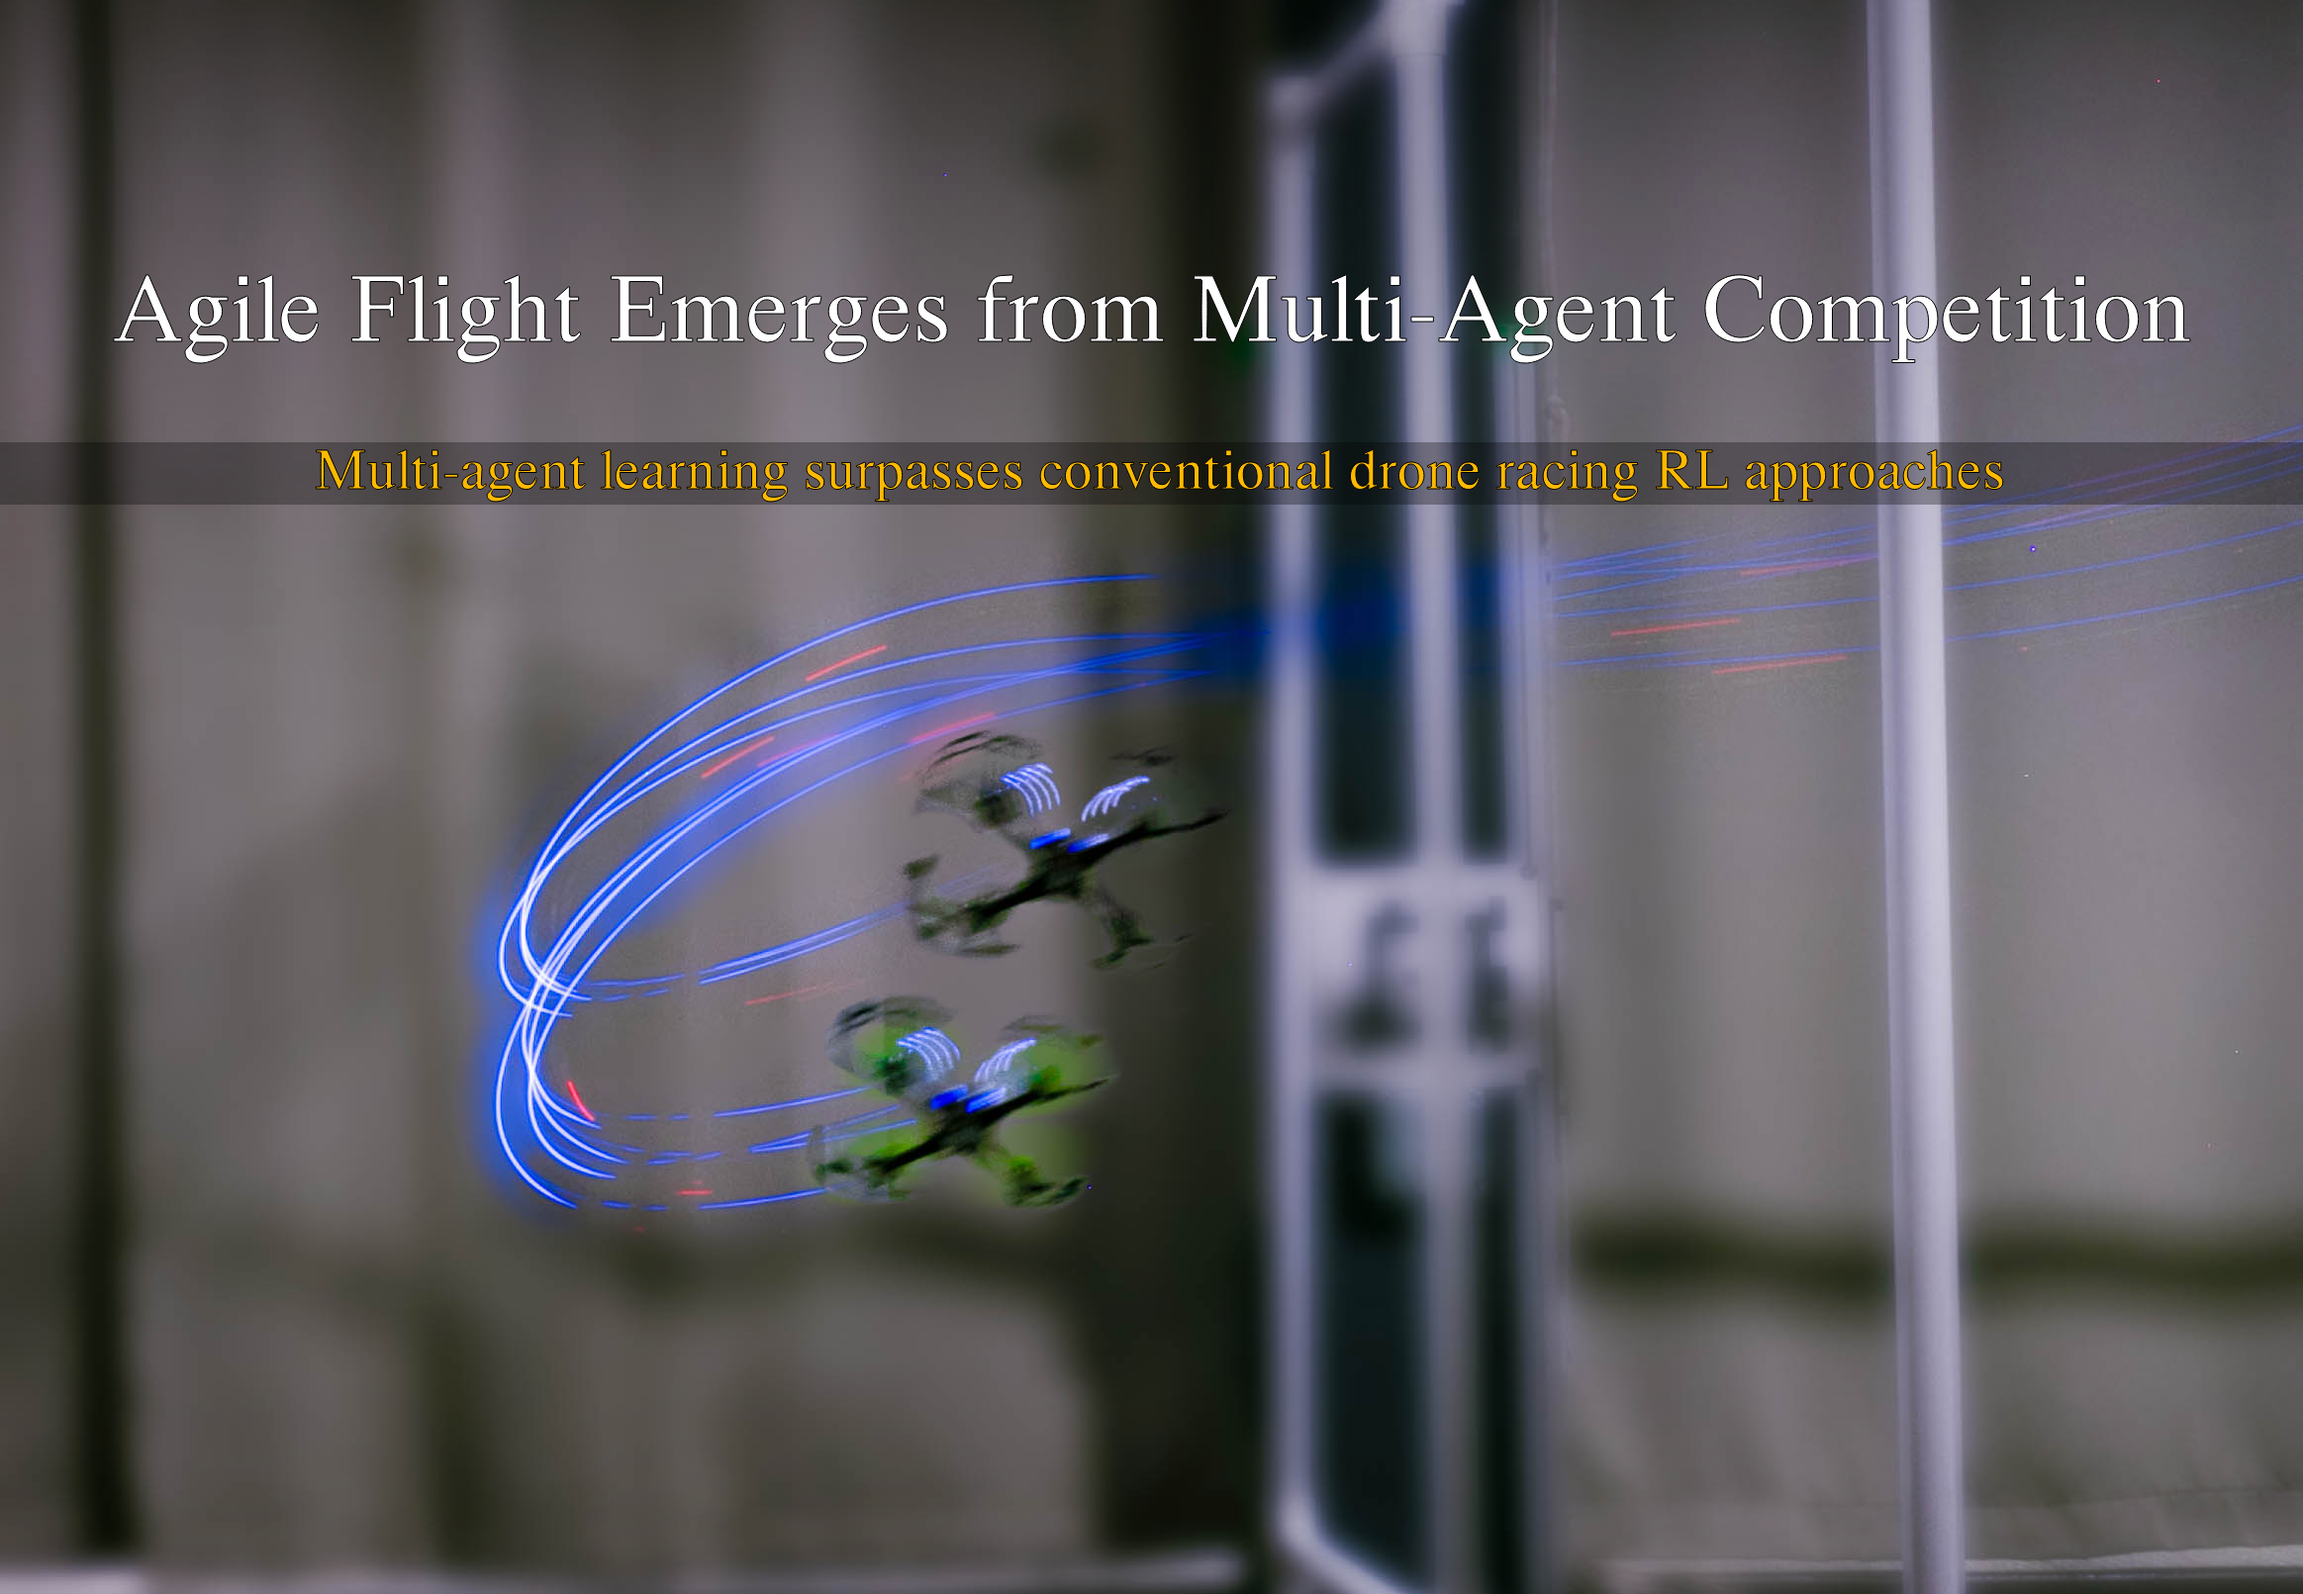
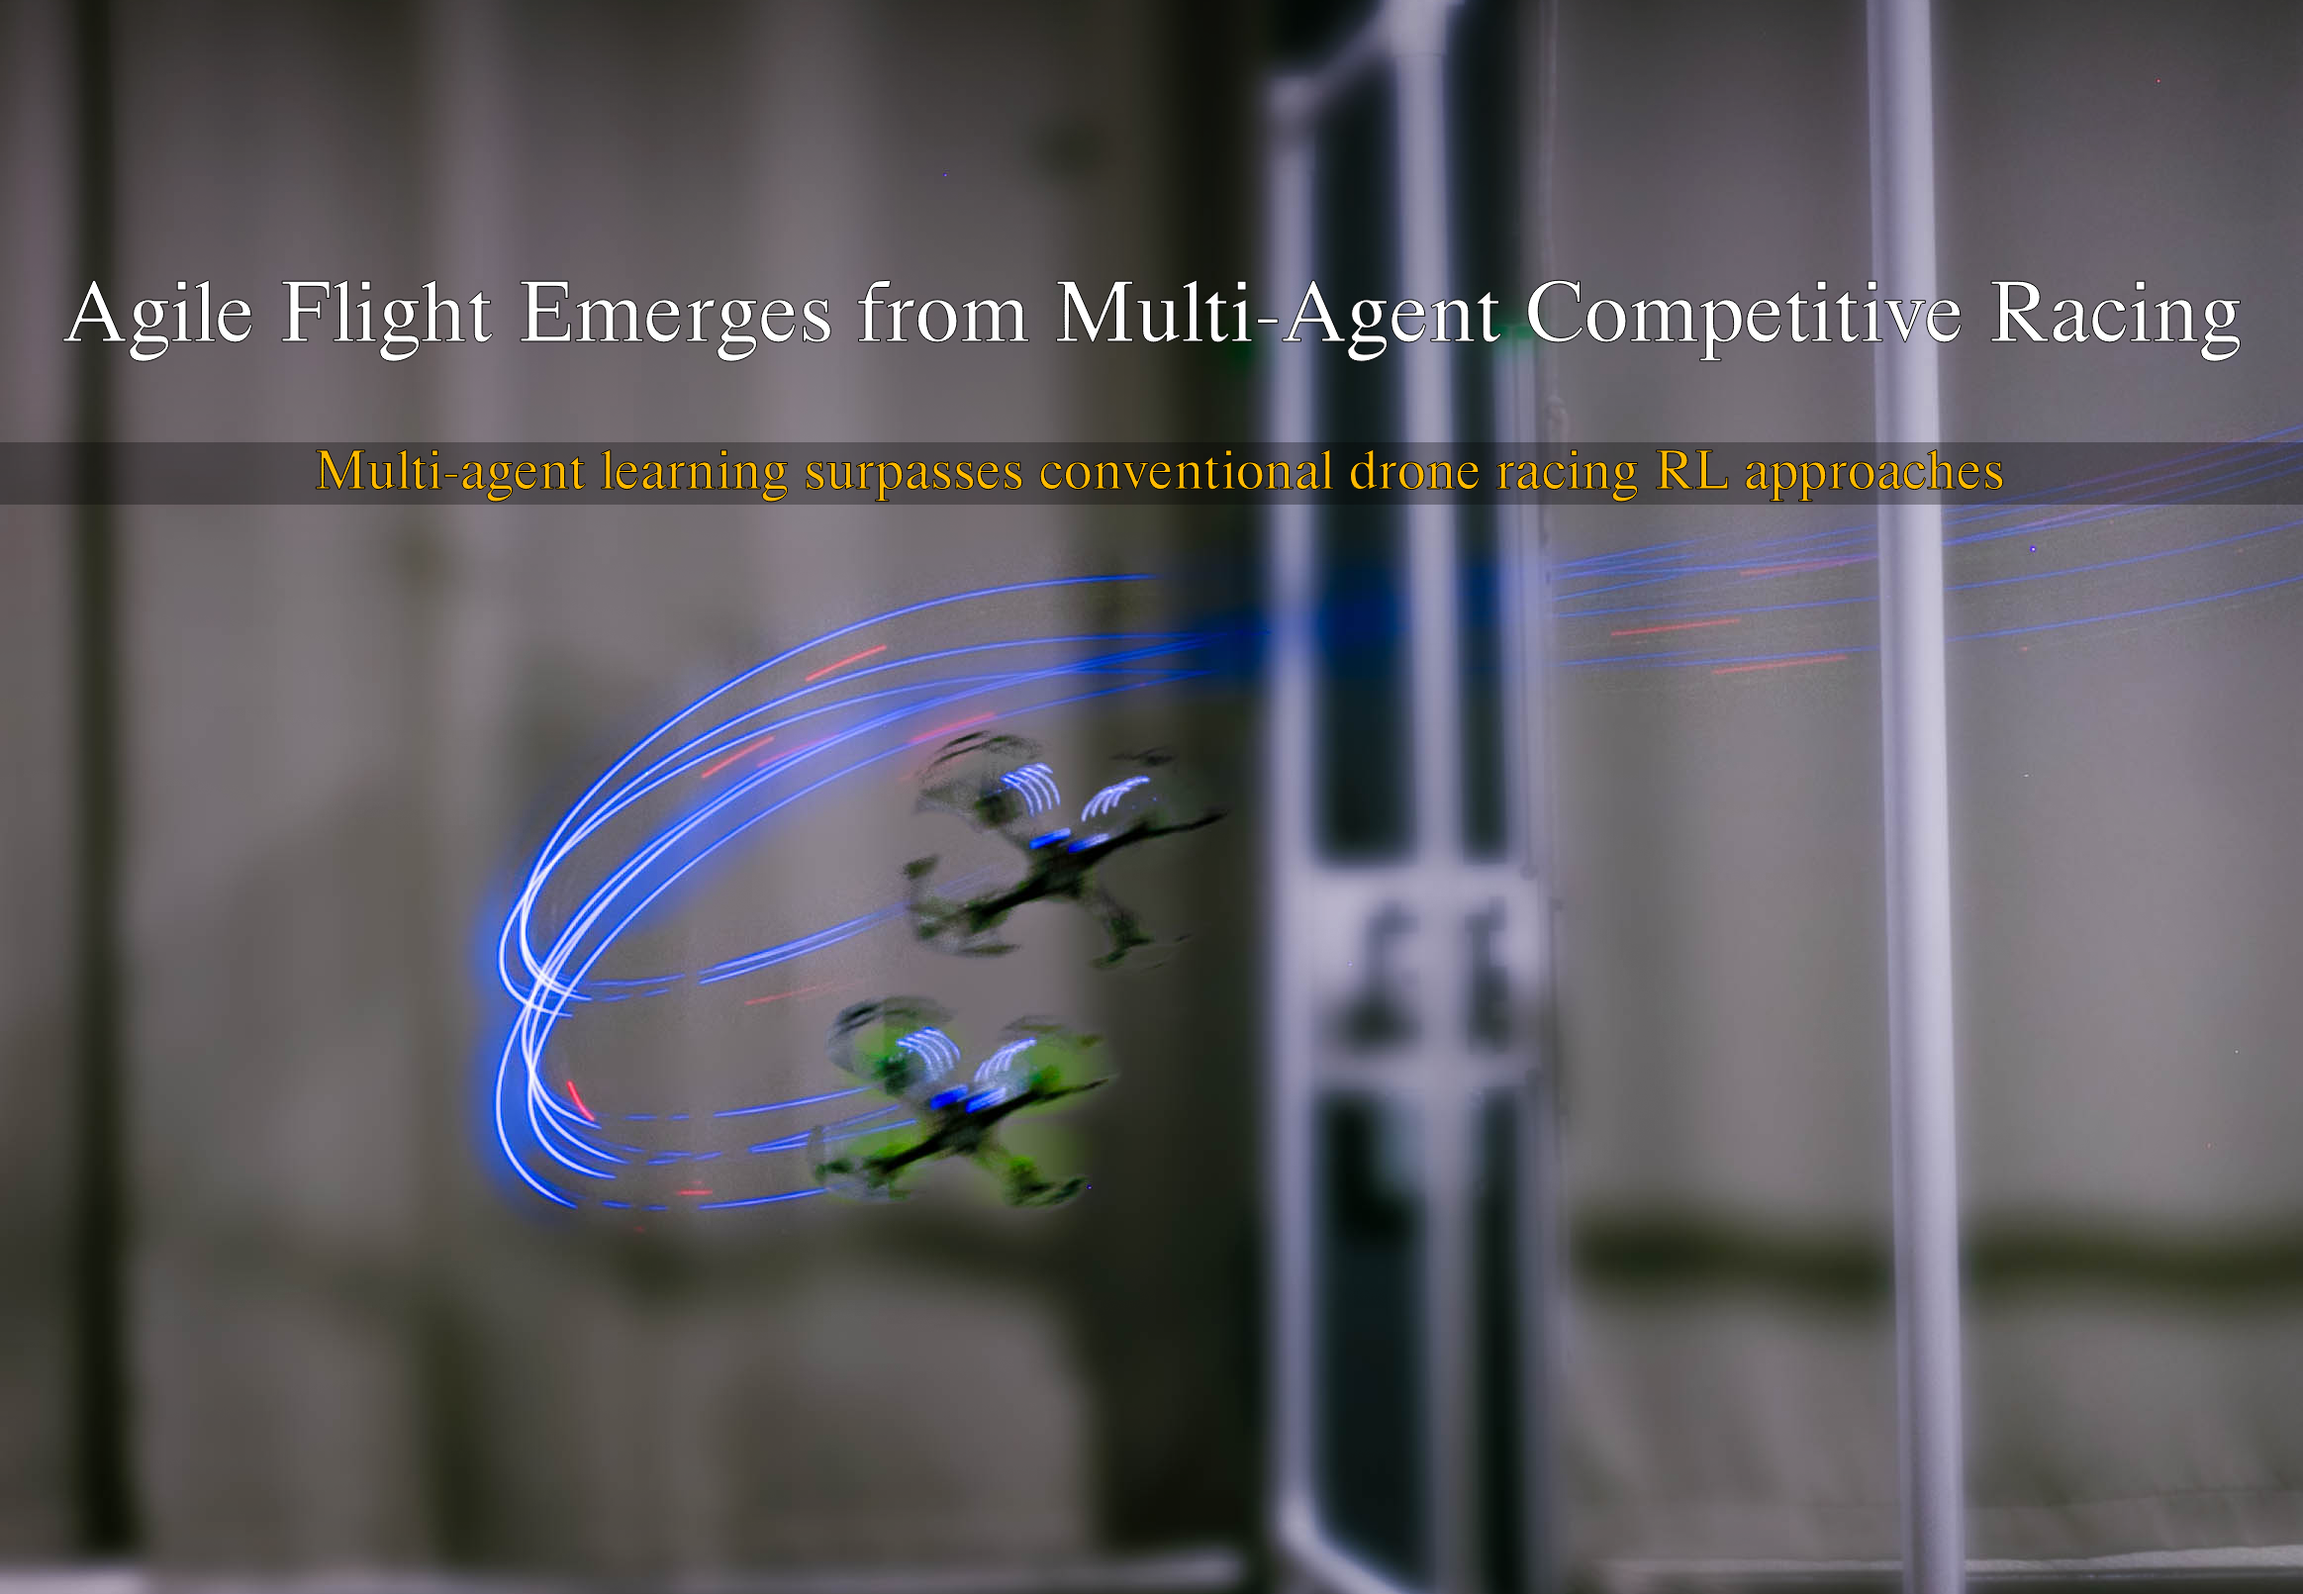
updated cover

Changed region(s): [[0.0309, 0.1552, 0.9901, 0.2483]]

diff --git a/README.md b/README.md
@@ -1,8 +1,8 @@
-# Agile Flight Emerges from Multi-Agent Competition
+# Agile Flight Emerges from Multi-Agent Competitive Racing
 
-[![Agile Flight Emerges from Multi-Agent Competition](AgileFlight_CoverImage.png)](https://youtu.be/AIUfCbEJX6E)
+[![Agile Flight Emerges from Multi-Agent Competitive Racing](AgileFlight_CoverImage.png)](https://youtu.be/AIUfCbEJX6E)
 
-This repository contains the code for training and evaluating the single-agent Dense (DS) and Sparse (SS) quadcopter racing policies in our paper, Agile Flight Emerges from Multi-Agent Competition.
+This repository contains the code for training and evaluating the single-agent Dense (DS) and Sparse (SS) quadcopter racing policies in our paper, [Agile Flight Emerges from Multi-Agent Competitive Racing](AgileFlightEmergesMultiAgentCompetition.pdf).
 In order to train Our multi-agent policy, please navigate to the main branch.
 ## Paper and Video
 
@@ -11,8 +11,8 @@ Paper: [PDF](AgileFlightEmergesMultiAgentCompetition.pdf)
 Video: [Youtube](https://youtu.be/AIUfCbEJX6E)
 
 ```bibtex
-@article{pasumarti2025agileflightemergesmultiagentcompetition,
-  title={Agile Flight Emerges from Multi-Agent Competition},
+@article{pasumarti2025agileflightemergesmultiagentcompetitiveracing,
+  title={Agile Flight Emerges from Multi-Agent Competitive Racing},
   author={Pasumarti, Bianchi, Loquercio},
   year={2025}
 }
